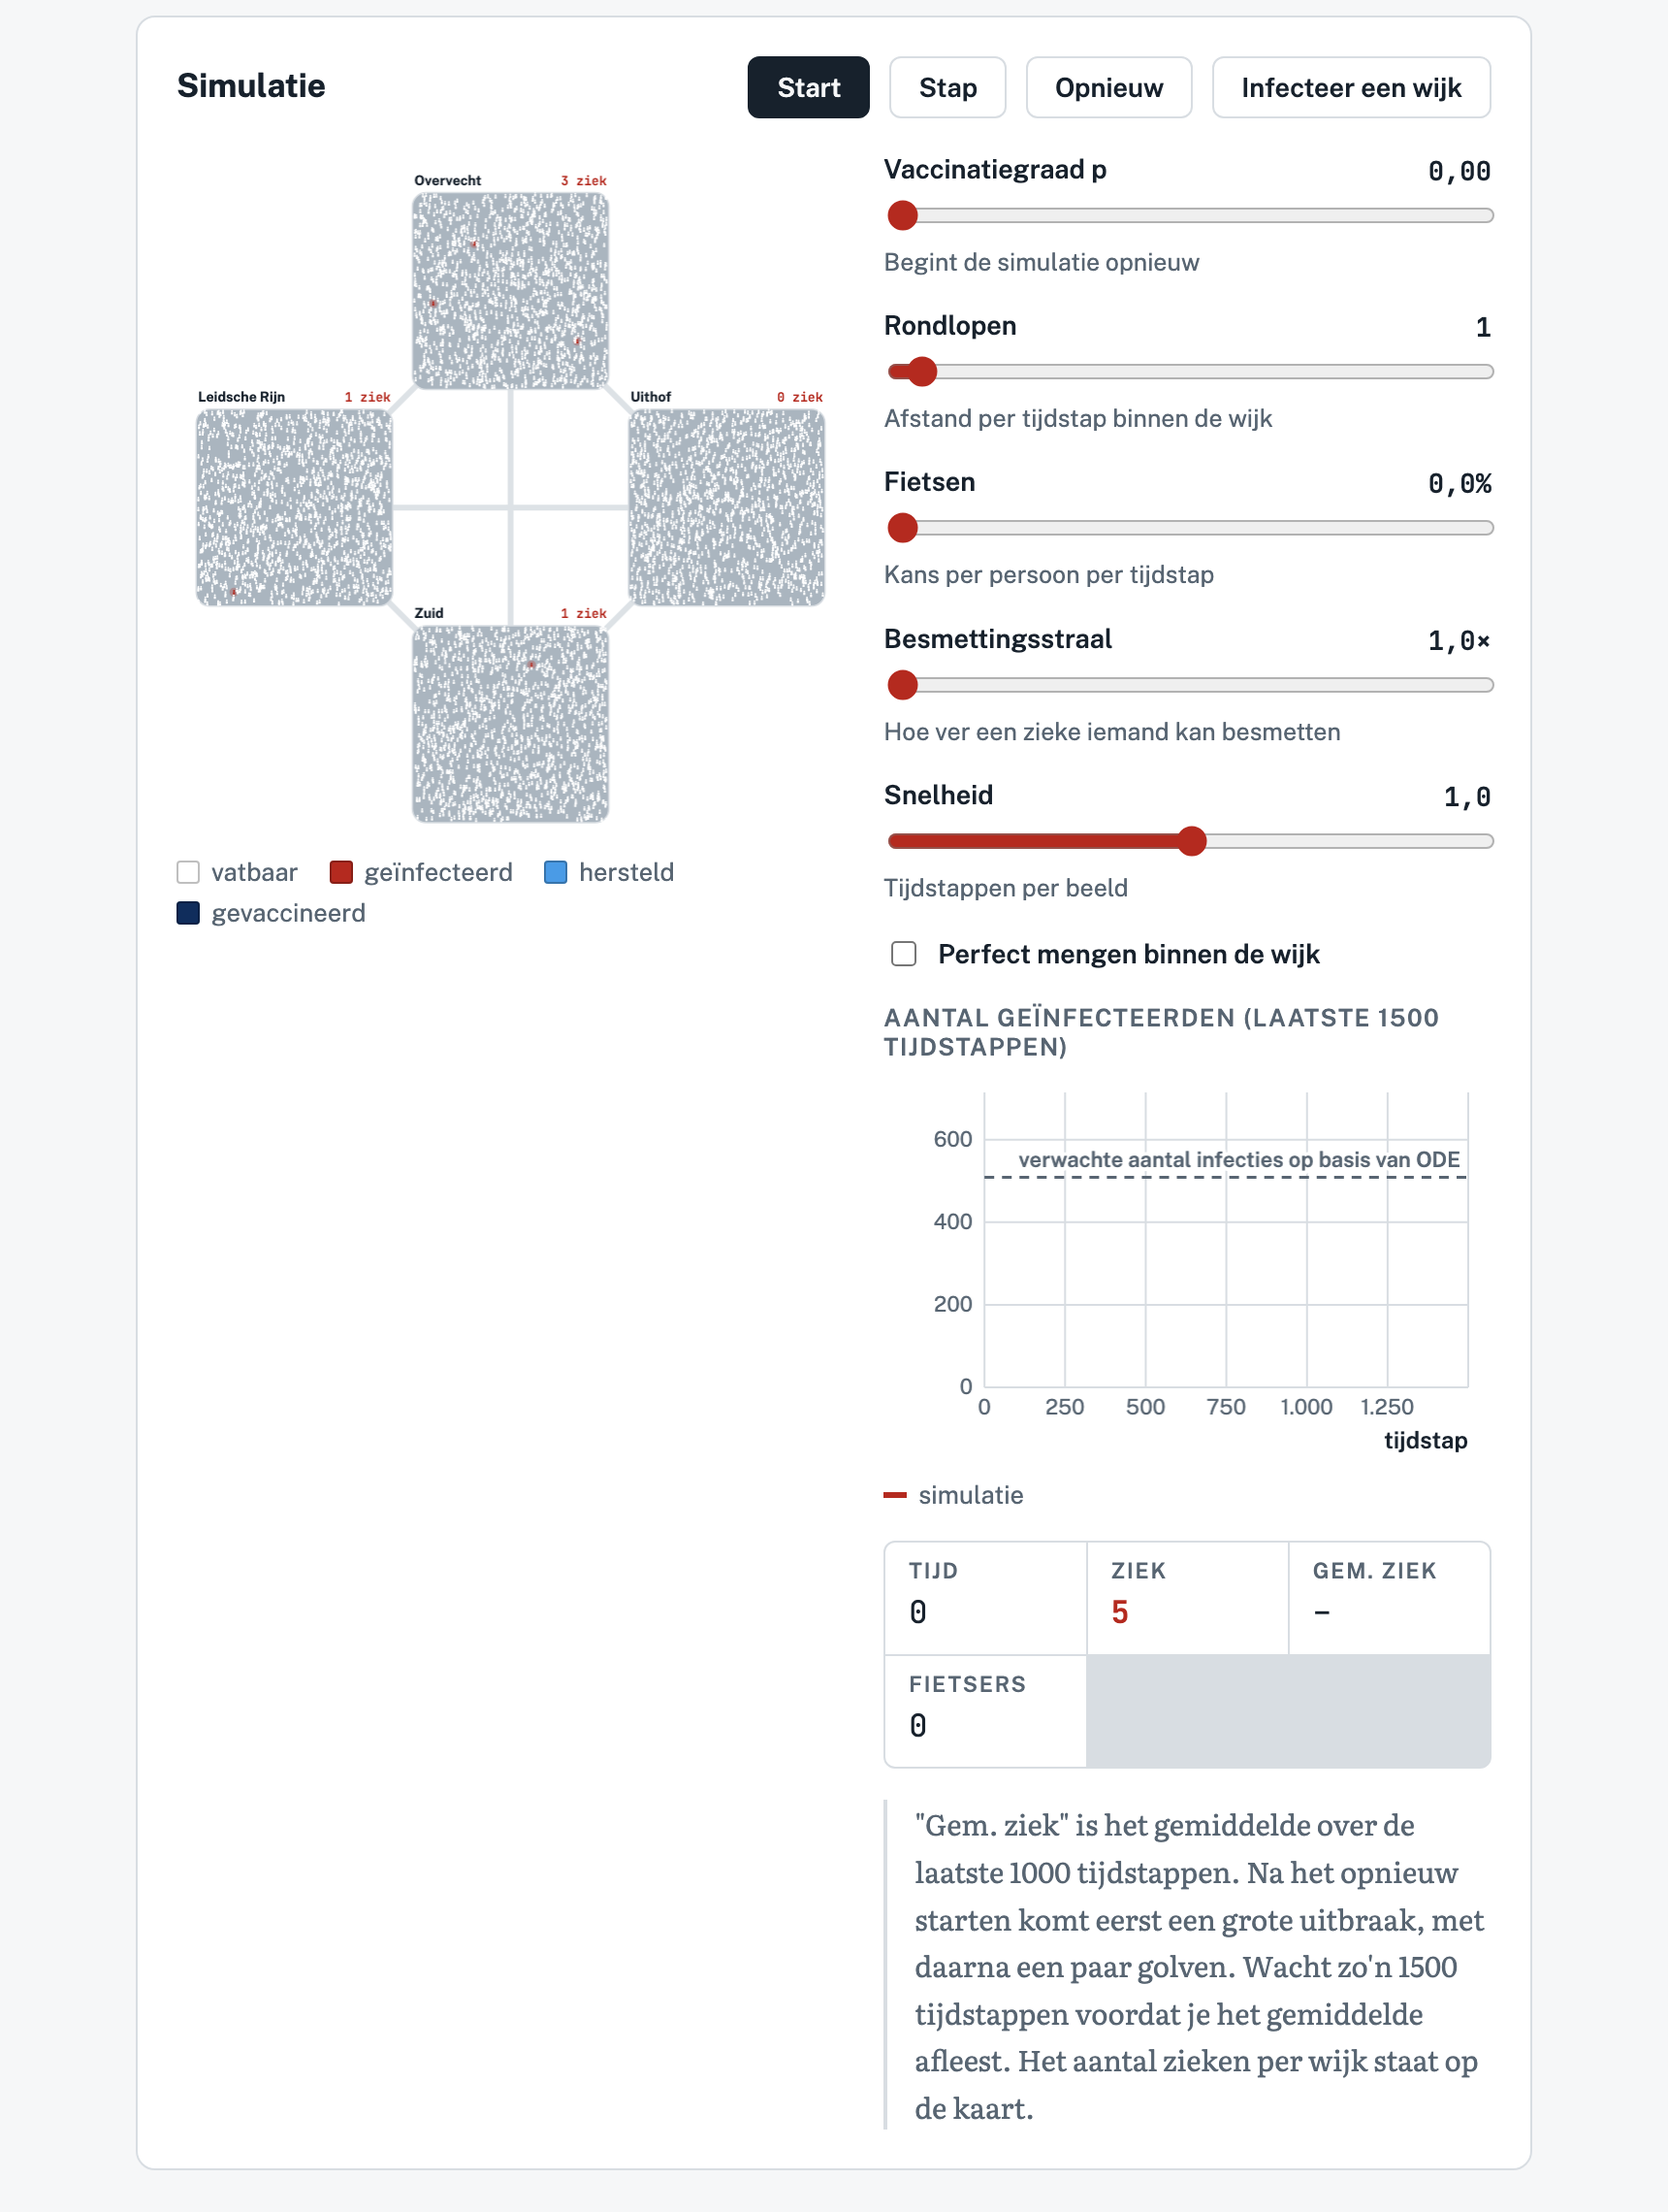
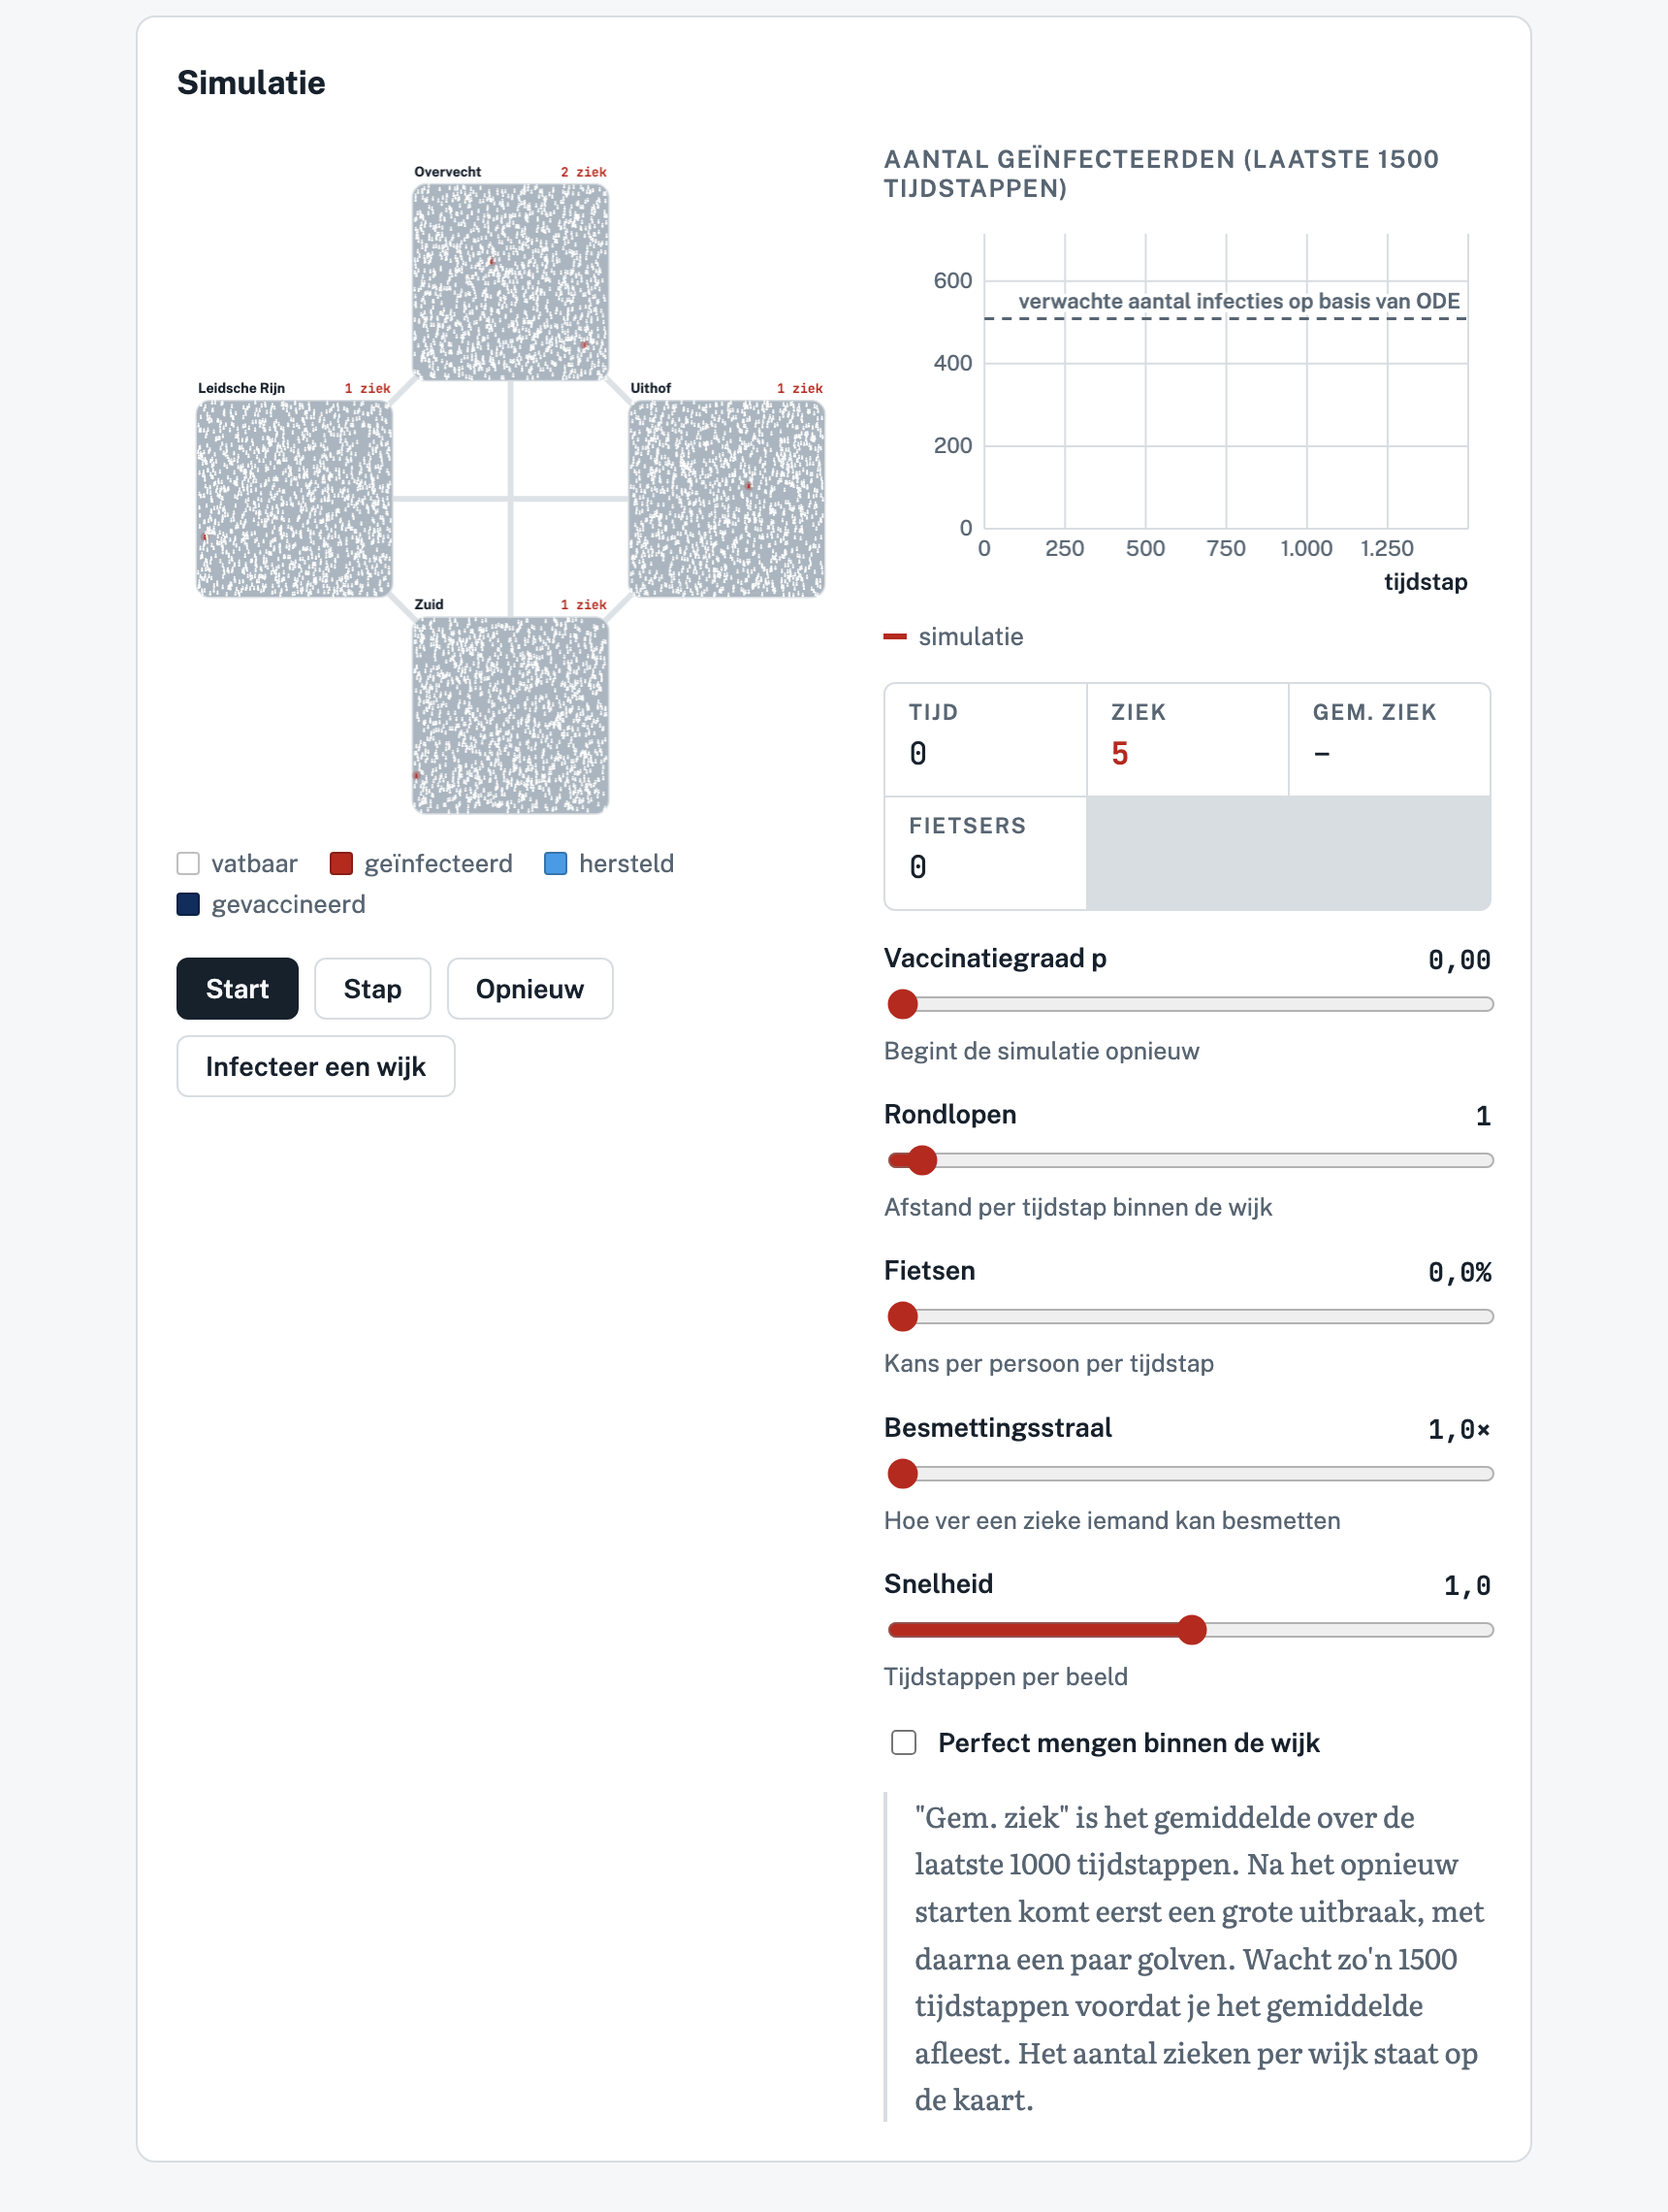
Mini-project: shorter part B (j–n); simulation buttons under the map, chart above the sliders

diff --git a/Modellen/Applets/mazelen_simulatie.html b/Modellen/Applets/mazelen_simulatie.html
@@ -203,6 +203,10 @@ footer { padding-top: 40px; font: 0.82rem var(--f-display); color: var(--muted);
 <div class="wrap">
   <style>
 /* embedded in the course book: no page chrome, just the lab */
+.sim-buttons { display: flex; flex-wrap: wrap; gap: 8px; margin-top: 12px; }
+/* chart and counters right under the buttons; the sliders below them */
+#simLab .panel > .controls { order: 1; }
+#simLab .panel > .note { order: 2; }
 body { padding: 8px !important; }
 .lab { margin: 0 !important; }
 </style>
@@ -223,12 +227,6 @@ body { padding: 8px !important; }
 <div class="lab" id="simLab">
     <div class="lab-head">
       <h3 class="ui">Simulatie</h3>
-      <div class="toolbar">
-        <button type="button" id="simPlay" class="primary">Start</button>
-        <button type="button" id="simStep">Stap</button>
-        <button type="button" id="simReset">Opnieuw</button>
-        <button type="button" id="simSeed">Infecteer een wijk</button>
-      </div>
     </div>
     <p class="toast" id="simToast" role="status" aria-live="polite" hidden></p>
     <div class="lab-grid sim">
@@ -239,6 +237,12 @@ body { padding: 8px !important; }
           <span><i class="sw" style="background:var(--accent)"></i>geïnfecteerd</span>
           <span><i class="sw" style="background:var(--c-r)"></i>hersteld</span>
           <span><i class="sw" style="background:var(--c-v)"></i>gevaccineerd</span>
+        </div>
+        <div class="toolbar sim-buttons">
+          <button type="button" id="simPlay" class="primary">Start</button>
+          <button type="button" id="simStep">Stap</button>
+          <button type="button" id="simReset">Opnieuw</button>
+          <button type="button" id="simSeed">Infecteer een wijk</button>
         </div>
       </div>
       <div class="panel" style="gap:16px">
